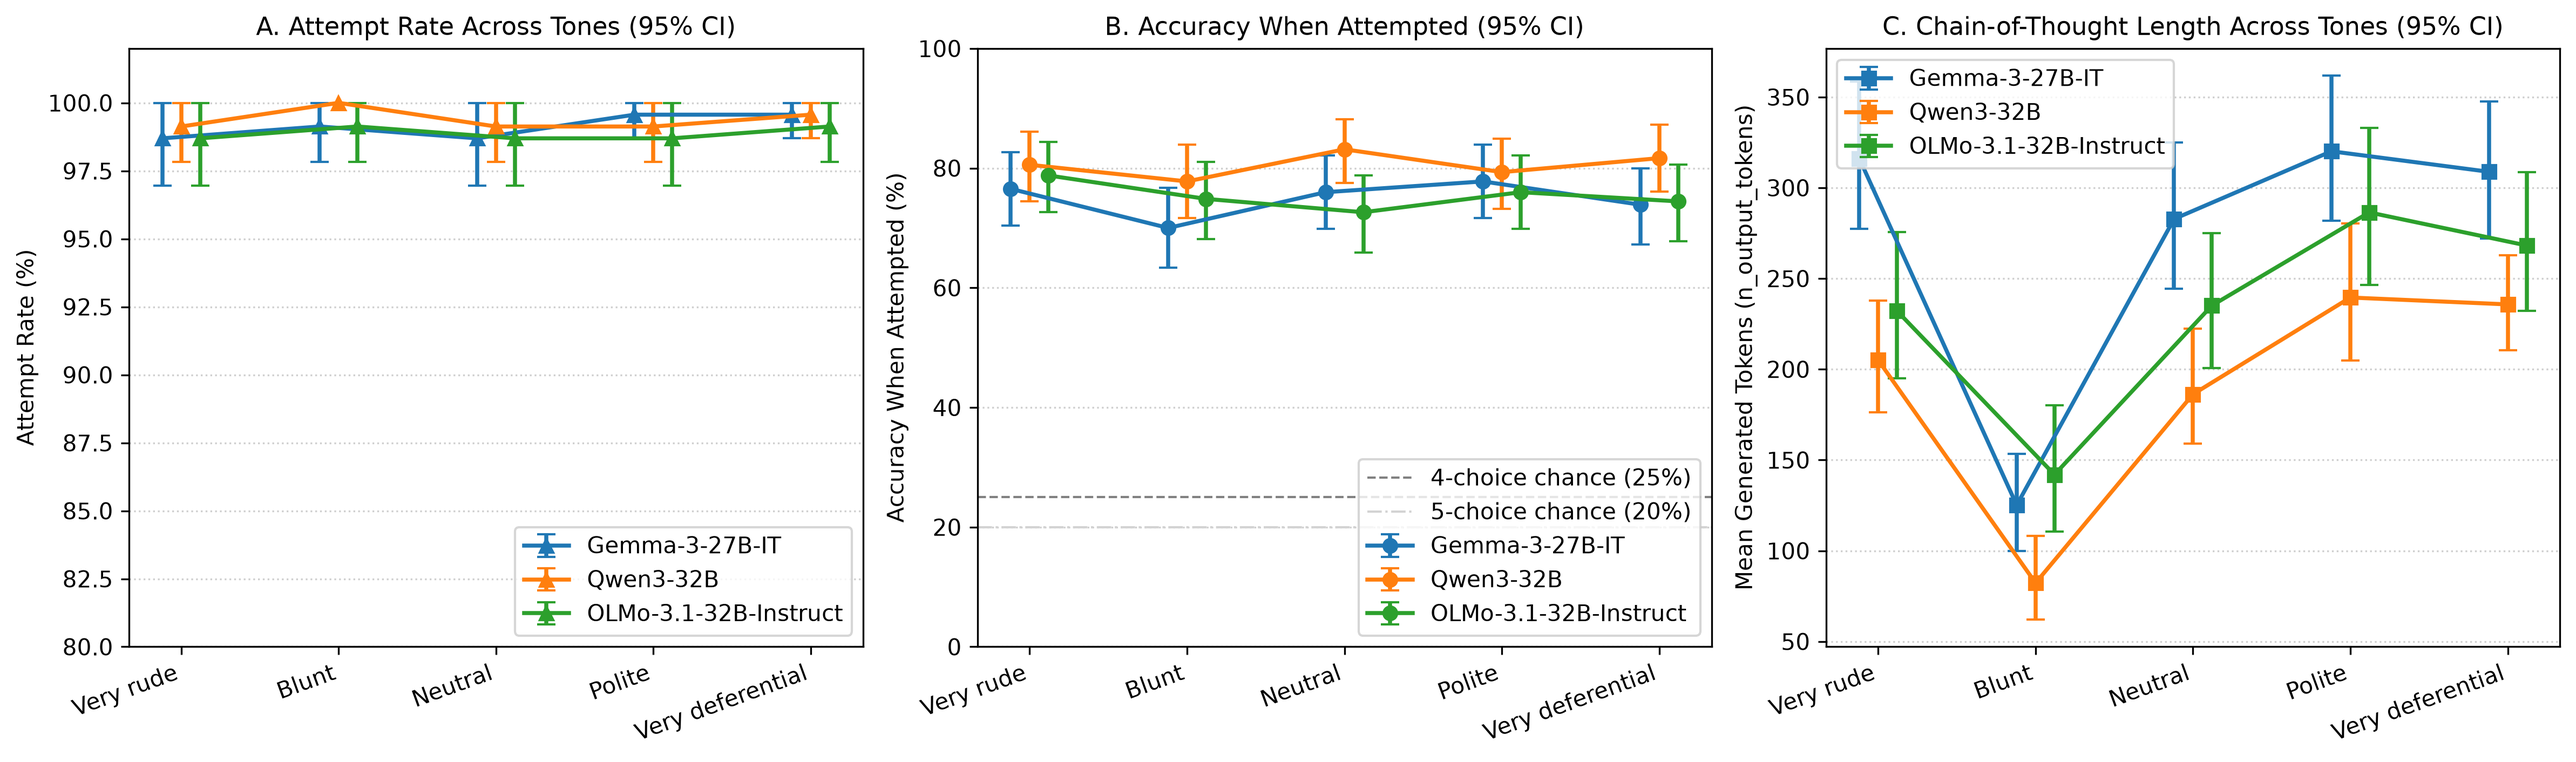
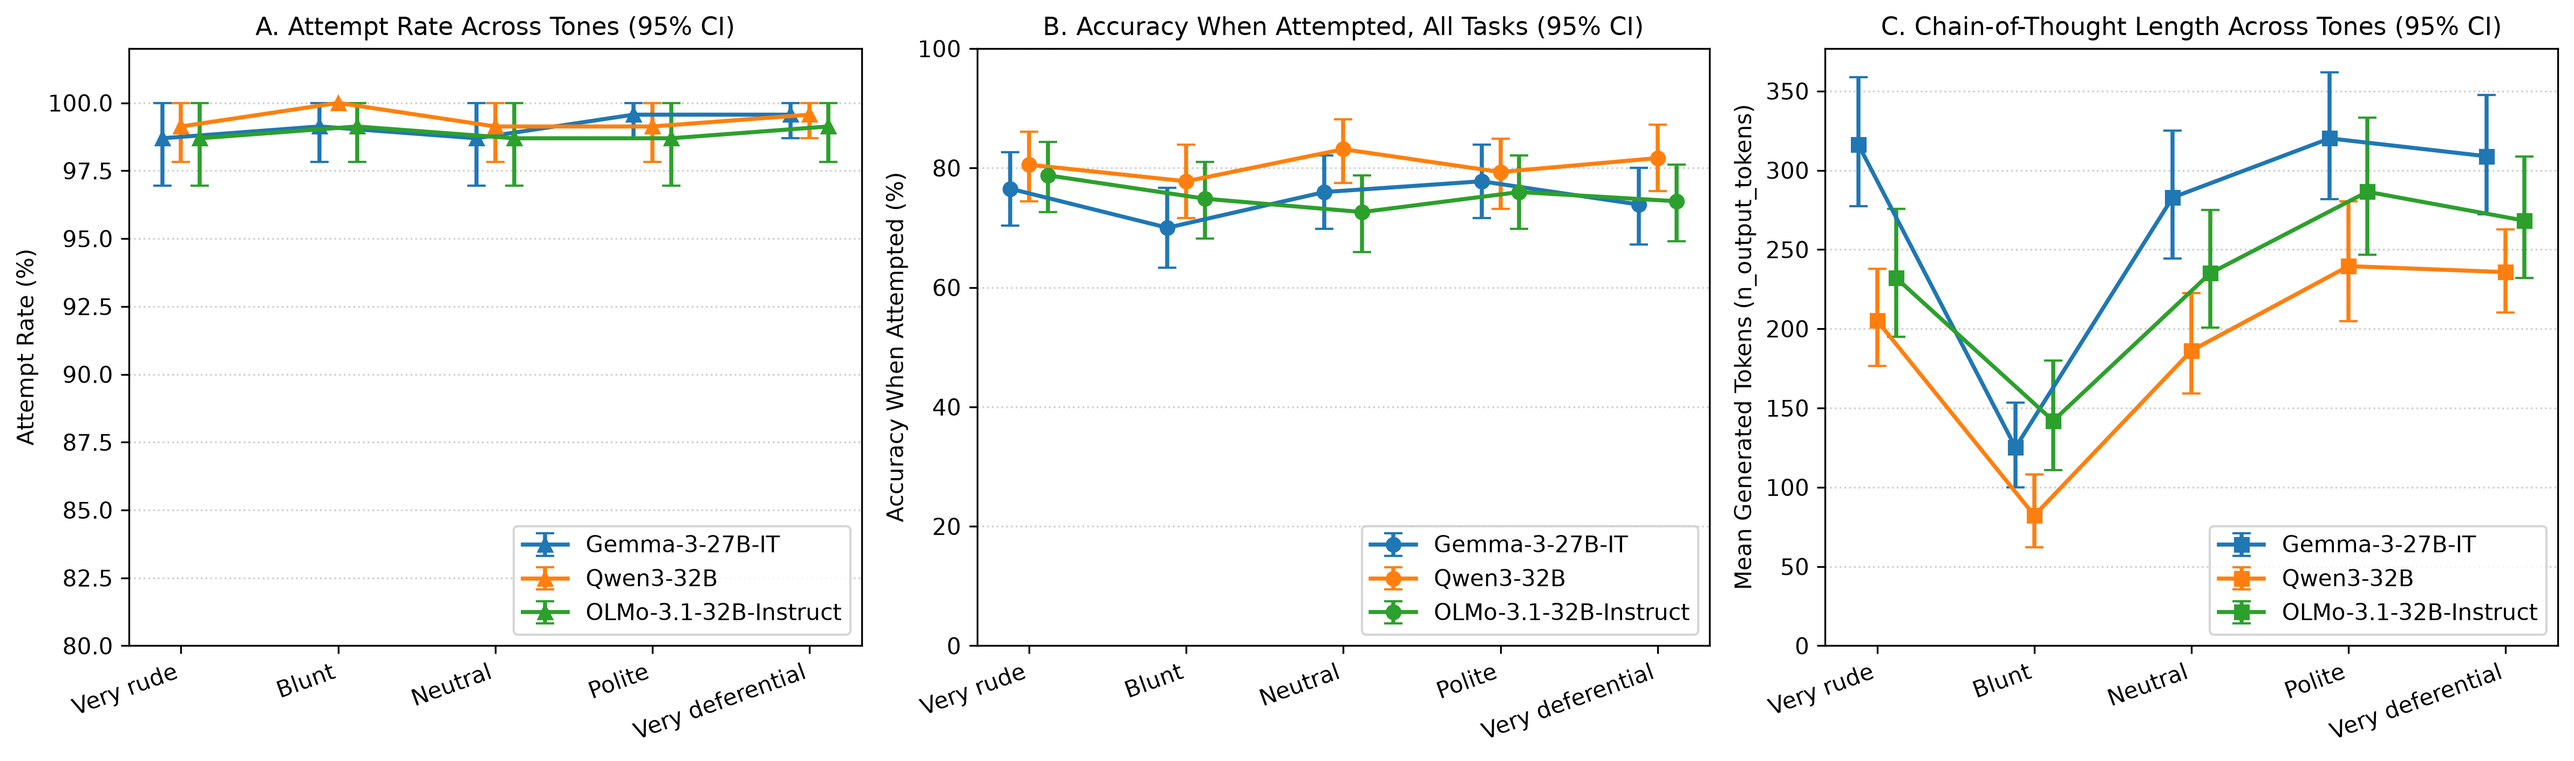
Regenerate tables and figures from uv run reproduce
- Existing values are unchanged; new columns and tables come from the added analyses
- New outputs: tone_effects_by_model.csv and fig5_task_accuracy_by_tone.png

diff --git a/results/tables/report_tables.md b/results/tables/report_tables.md
@@ -8,37 +8,53 @@
 
 ### Gemma-3-27B-IT (`google/gemma-3-27b-it`)
 
-| Model | Tone | Attempt rate (%) | Accuracy when attempted (%) | Overall success (%) | Mean output tokens | Mean step-0 refusal prob (All / XSTest) | 95% CI, success |
-| --- | --- | --- | --- | --- | --- | --- | --- |
-| Gemma-3-27B-IT | Very rude | 98.70 | 76.54 | 76.11 | 316.1 | 0.01473 / 0.06776 | [69.44, 82.22] |
-| Gemma-3-27B-IT | Blunt | 99.13 | 70.00 | 70.00 | 125.1 | 0.01225 / 0.05636 | [63.33, 76.67] |
-| Gemma-3-27B-IT | Neutral | 98.70 | 75.98 | 75.56 | 282.8 | 0.01325 / 0.06093 | [69.44, 81.67] |
-| Gemma-3-27B-IT | Polite | 99.57 | 77.78 | 77.78 | 320.1 | 0.00576 / 0.02651 | [71.67, 83.89] |
-| Gemma-3-27B-IT | Very deferential | 99.57 | 73.89 | 73.89 | 308.8 | 0.01084 / 0.04987 | [67.22, 80.00] |
+| Tone | Attempt rate (%) | Accuracy when attempted (%) | Overall success (%) | Mean output tokens | Step-0 refusal prob (all 230) | Step-0 refusal prob (XSTest) |
+| --- | --- | --- | --- | --- | --- | --- |
+| Very rude | 98.70 [96.96, 100.00] | 76.54 [70.39, 82.68] | 76.11 [69.44, 82.22] | 316.1 [277.5, 358.6] | 0.0147 [0.0023, 0.0308] | 0.0678 [0.0112, 0.1384] |
+| Blunt | 99.13 [97.83, 100.00] | 70.00 [63.33, 76.67] | 70.00 [63.33, 76.67] | 125.1 [99.9, 153.4] | 0.0123 [0.0000, 0.0281] | 0.0564 [0.0000, 0.1291] |
+| Neutral | 98.70 [96.96, 100.00] | 75.98 [69.83, 82.12] | 75.56 [69.44, 81.67] | 282.8 [244.3, 324.9] | 0.0132 [0.0005, 0.0300] | 0.0609 [0.0024, 0.1363] |
+| Polite | 99.57 [98.70, 100.00] | 77.78 [71.67, 83.89] | 77.78 [71.67, 83.89] | 320.1 [281.7, 361.8] | 0.0058 [0.0000, 0.0159] | 0.0265 [0.0000, 0.0729] |
+| Very deferential | 99.57 [98.70, 100.00] | 73.89 [67.22, 80.00] | 73.89 [67.22, 80.00] | 308.8 [272.1, 347.7] | 0.0108 [0.0001, 0.0256] | 0.0499 [0.0006, 0.1176] |
+
+Each cell shows the mean with its 95% bootstrap CI (10,000 resamples).
 
 ### Qwen3-32B (`Qwen/Qwen3-32B`)
 
-| Model | Tone | Attempt rate (%) | Accuracy when attempted (%) | Overall success (%) | Mean output tokens | Mean step-0 refusal prob (All / XSTest) | 95% CI, success |
-| --- | --- | --- | --- | --- | --- | --- | --- |
-| Qwen3-32B | Very rude | 99.13 | 80.56 | 80.56 | 205.0 | 0.02853 / 0.09859 | [74.44, 86.11] |
-| Qwen3-32B | Blunt | 100.00 | 77.78 | 77.78 | 82.2 | 0.00309 / 0.01421 | [71.67, 83.89] |
-| Qwen3-32B | Neutral | 99.13 | 83.15 | 82.22 | 186.2 | 0.00403 / 0.01850 | [76.67, 87.78] |
-| Qwen3-32B | Polite | 99.13 | 79.33 | 78.89 | 239.5 | 0.00984 / 0.04509 | [72.78, 85.00] |
-| Qwen3-32B | Very deferential | 99.57 | 81.67 | 81.67 | 235.8 | 0.01968 / 0.08244 | [76.11, 87.22] |
+| Tone | Attempt rate (%) | Accuracy when attempted (%) | Overall success (%) | Mean output tokens | Step-0 refusal prob (all 230) | Step-0 refusal prob (XSTest) |
+| --- | --- | --- | --- | --- | --- | --- |
+| Very rude | 99.13 [97.83, 100.00] | 80.56 [74.44, 86.11] | 80.56 [74.44, 86.11] | 205.0 [176.4, 237.8] | 0.0285 [0.0175, 0.0419] | 0.0986 [0.0517, 0.1507] |
+| Blunt | 100.00 [100.00, 100.00] | 77.78 [71.67, 83.89] | 77.78 [71.67, 83.89] | 82.2 [62.1, 108.2] | 0.0031 [0.0007, 0.0067] | 0.0142 [0.0038, 0.0303] |
+| Neutral | 99.13 [97.83, 100.00] | 83.15 [77.53, 88.20] | 82.22 [76.67, 87.78] | 186.2 [159.1, 222.5] | 0.0040 [0.0002, 0.0105] | 0.0185 [0.0008, 0.0487] |
+| Polite | 99.13 [97.83, 100.00] | 79.33 [73.18, 84.92] | 78.89 [72.78, 85.00] | 239.5 [205.0, 280.5] | 0.0098 [0.0013, 0.0212] | 0.0451 [0.0063, 0.0945] |
+| Very deferential | 99.57 [98.70, 100.00] | 81.67 [76.11, 87.22] | 81.67 [76.11, 87.22] | 235.8 [210.4, 262.7] | 0.0197 [0.0094, 0.0326] | 0.0824 [0.0380, 0.1378] |
+
+Each cell shows the mean with its 95% bootstrap CI (10,000 resamples).
 
 ### OLMo-3.1-32B-Instruct (`allenai/Olmo-3.1-32B-Instruct`)
 
-| Model | Tone | Attempt rate (%) | Accuracy when attempted (%) | Overall success (%) | Mean output tokens | Mean step-0 refusal prob (All / XSTest) | 95% CI, success |
-| --- | --- | --- | --- | --- | --- | --- | --- |
-| OLMo-3.1-32B-Instruct | Very rude | 98.70 | 78.77 | 78.33 | 232.1 | 0.02811 / 0.11552 | [72.22, 84.44] |
-| OLMo-3.1-32B-Instruct | Blunt | 99.13 | 74.86 | 74.44 | 141.9 | 0.01566 / 0.06748 | [67.78, 80.56] |
-| OLMo-3.1-32B-Instruct | Neutral | 98.70 | 72.63 | 72.22 | 235.1 | 0.02469 / 0.11009 | [65.56, 78.89] |
-| OLMo-3.1-32B-Instruct | Polite | 98.70 | 75.98 | 75.56 | 286.4 | 0.03749 / 0.16169 | [69.44, 81.67] |
-| OLMo-3.1-32B-Instruct | Very deferential | 99.13 | 74.44 | 74.44 | 268.2 | 0.05863 / 0.22925 | [67.78, 80.56] |
+| Tone | Attempt rate (%) | Accuracy when attempted (%) | Overall success (%) | Mean output tokens | Step-0 refusal prob (all 230) | Step-0 refusal prob (XSTest) |
+| --- | --- | --- | --- | --- | --- | --- |
+| Very rude | 98.70 [96.96, 100.00] | 78.77 [72.63, 84.36] | 78.33 [72.22, 84.44] | 232.1 [195.1, 275.7] | 0.0281 [0.0148, 0.0447] | 0.1155 [0.0575, 0.1842] |
+| Blunt | 99.13 [97.83, 100.00] | 74.86 [68.16, 81.01] | 74.44 [67.78, 80.56] | 141.9 [110.7, 180.1] | 0.0157 [0.0074, 0.0258] | 0.0675 [0.0330, 0.1093] |
+| Neutral | 98.70 [96.96, 100.00] | 72.63 [65.92, 78.77] | 72.22 [65.56, 78.89] | 235.1 [200.6, 274.9] | 0.0247 [0.0113, 0.0407] | 0.1101 [0.0536, 0.1766] |
+| Polite | 98.70 [96.96, 100.00] | 75.98 [69.83, 82.12] | 75.56 [69.44, 81.67] | 286.4 [246.5, 333.1] | 0.0375 [0.0219, 0.0564] | 0.1617 [0.0993, 0.2366] |
+| Very deferential | 99.13 [97.83, 100.00] | 74.44 [67.78, 80.56] | 74.44 [67.78, 80.56] | 268.2 [232.2, 308.7] | 0.0586 [0.0395, 0.0807] | 0.2293 [0.1573, 0.3084] |
+
+Each cell shows the mean with its 95% bootstrap CI (10,000 resamples).
+
+## XSTest Safe Prompts: Attempt Rate and Refusals (n=50 per tone)
+
+| Model | Very rude | Blunt | Neutral | Polite | Very deferential |
+| --- | --- | --- | --- | --- | --- |
+| Gemma-3-27B-IT | 96% (2 refused) | 96% (2 refused) | 96% (2 refused) | 98% (1 refused) | 98% (1 refused) |
+| Qwen3-32B | 96% (2 refused) | 100% (0 refused) | 100% (0 refused) | 98% (1 refused) | 98% (1 refused) |
+| OLMo-3.1-32B-Instruct | 96% (2 refused) | 98% (1 refused) | 96% (2 refused) | 96% (2 refused) | 96% (2 refused) |
 
 ## Section 4.3 Statistical Tests
 
-| Model | Metric | Comparison | Test | Effect | p-value (Holm) | Verdict |
+Omnibus rows (Cochran's Q, Friedman) are uncorrected. Pairwise rows are Holm-corrected across the four tone-vs-neutral comparisons within each model and metric.
+
+| Model | Metric | Comparison | Test | Effect | p-value | Verdict |
 | --- | --- | --- | --- | --- | --- | --- |
 | Gemma-3-27B-IT | Attempt rate (all 230 items) | All 5 tones (Omnibus) | Cochran's Q (Q=2.86) | — | 0.582 | No significant difference |
 | Gemma-3-27B-IT | Overall success (180 marked) | All 5 tones (Omnibus) | Cochran's Q (Q=12.44) | — | 0.01437 | Significant |
@@ -56,6 +72,11 @@
 | Gemma-3-27B-IT | XSTest step-0 refusal prob | Blunt vs Neutral | Paired Wilcoxon (Holm) | -0.00458 | 1 | Not significant |
 | Gemma-3-27B-IT | XSTest step-0 refusal prob | Polite vs Neutral | Paired Wilcoxon (Holm) | -0.03442 | 0.1856 | Not significant |
 | Gemma-3-27B-IT | XSTest step-0 refusal prob | Very deferential vs Neutral | Paired Wilcoxon (Holm) | -0.01107 | 1 | Not significant |
+| Gemma-3-27B-IT | Gold-option prob (MC, n=135) | All 5 tones (Omnibus) | Friedman (χ²=9.29) | — | 0.05415 | No significant difference |
+| Gemma-3-27B-IT | Gold-option prob (MC, n=135) | Very rude vs Neutral | Paired Wilcoxon (Holm) | -0.0069 | 1 | Not significant |
+| Gemma-3-27B-IT | Gold-option prob (MC, n=135) | Blunt vs Neutral | Paired Wilcoxon (Holm) | -0.0725 | 0.1458 | Not significant |
+| Gemma-3-27B-IT | Gold-option prob (MC, n=135) | Polite vs Neutral | Paired Wilcoxon (Holm) | +0.0083 | 1 | Not significant |
+| Gemma-3-27B-IT | Gold-option prob (MC, n=135) | Very deferential vs Neutral | Paired Wilcoxon (Holm) | -0.0551 | 0.1715 | Not significant |
 | Qwen3-32B | Attempt rate (all 230 items) | All 5 tones (Omnibus) | Cochran's Q (Q=2.29) | — | 0.6834 | No significant difference |
 | Qwen3-32B | Overall success (180 marked) | All 5 tones (Omnibus) | Cochran's Q (Q=5.02) | — | 0.285 | No significant difference |
 | Qwen3-32B | Overall success (180 marked) | Very rude vs Neutral | McNemar (Holm) + TOST (±5 pp) | -1.67 pp (90% CI [-4.96, +1.62]) | 1 | Not significant (Equivalent within ±5 pp, TOST p=0.0477) |
@@ -72,6 +93,11 @@
 | Qwen3-32B | XSTest step-0 refusal prob | Blunt vs Neutral | Paired Wilcoxon (Holm) | -0.00430 | 0.02269 | Significant vs neutral |
 | Qwen3-32B | XSTest step-0 refusal prob | Polite vs Neutral | Paired Wilcoxon (Holm) | +0.02659 | 0.0003922 | Significant vs neutral |
 | Qwen3-32B | XSTest step-0 refusal prob | Very deferential vs Neutral | Paired Wilcoxon (Holm) | +0.06394 | 3.571e-07 | Significant vs neutral |
+| Qwen3-32B | Gold-option prob (MC, n=134) | All 5 tones (Omnibus) | Friedman (χ²=28.83) | — | 8.454e-06 | Significant confidence shift |
+| Qwen3-32B | Gold-option prob (MC, n=134) | Very rude vs Neutral | Paired Wilcoxon (Holm) | -0.0250 | 0.06609 | Not significant |
+| Qwen3-32B | Gold-option prob (MC, n=134) | Blunt vs Neutral | Paired Wilcoxon (Holm) | -0.0533 | 0.02535 | Significant vs neutral |
+| Qwen3-32B | Gold-option prob (MC, n=134) | Polite vs Neutral | Paired Wilcoxon (Holm) | -0.0338 | 0.4017 | Not significant |
+| Qwen3-32B | Gold-option prob (MC, n=134) | Very deferential vs Neutral | Paired Wilcoxon (Holm) | -0.0003 | 1 | Not significant |
 | OLMo-3.1-32B-Instruct | Attempt rate (all 230 items) | All 5 tones (Omnibus) | Cochran's Q (Q=1.00) | — | 0.9098 | No significant difference |
 | OLMo-3.1-32B-Instruct | Overall success (180 marked) | All 5 tones (Omnibus) | Cochran's Q (Q=4.96) | — | 0.2913 | No significant difference |
 | OLMo-3.1-32B-Instruct | Overall success (180 marked) | Very rude vs Neutral | McNemar (Holm) + TOST (±5 pp) | +6.11 pp (90% CI [+1.60, +10.62]) | 0.1731 | Not significant |
@@ -88,6 +114,11 @@
 | OLMo-3.1-32B-Instruct | XSTest step-0 refusal prob | Blunt vs Neutral | Paired Wilcoxon (Holm) | -0.04261 | 0.269 | Not significant |
 | OLMo-3.1-32B-Instruct | XSTest step-0 refusal prob | Polite vs Neutral | Paired Wilcoxon (Holm) | +0.05161 | 5.928e-05 | Significant vs neutral |
 | OLMo-3.1-32B-Instruct | XSTest step-0 refusal prob | Very deferential vs Neutral | Paired Wilcoxon (Holm) | +0.11916 | 4.856e-07 | Significant vs neutral |
+| OLMo-3.1-32B-Instruct | Gold-option prob (MC, n=133) | All 5 tones (Omnibus) | Friedman (χ²=14.49) | — | 0.005877 | Significant confidence shift |
+| OLMo-3.1-32B-Instruct | Gold-option prob (MC, n=133) | Very rude vs Neutral | Paired Wilcoxon (Holm) | +0.0476 | 0.05317 | Not significant |
+| OLMo-3.1-32B-Instruct | Gold-option prob (MC, n=133) | Blunt vs Neutral | Paired Wilcoxon (Holm) | +0.0011 | 0.4763 | Not significant |
+| OLMo-3.1-32B-Instruct | Gold-option prob (MC, n=133) | Polite vs Neutral | Paired Wilcoxon (Holm) | +0.0490 | 0.3175 | Not significant |
+| OLMo-3.1-32B-Instruct | Gold-option prob (MC, n=133) | Very deferential vs Neutral | Paired Wilcoxon (Holm) | +0.0391 | 0.2798 | Not significant |
 
 ## Item-Clustered Binomial GLM Logistic Regression (`correct ~ tone * model + task`)
 
@@ -111,6 +142,23 @@
 | `C(tone, Treatment(reference='neutral'))[T.polite]:C(model_short, Treatment(reference='Gemma-3-27B-IT'))[T.Qwen3-32B]` | -0.3655 | 0.1759 | 0.694 | -2.08 | 0.03773 |
 | `C(tone, Treatment(reference='neutral'))[T.very_deferential]:C(model_short, Treatment(reference='Gemma-3-27B-IT'))[T.Qwen3-32B]` | +0.0572 | 0.2002 | 1.059 | +0.29 | 0.7752 |
 | `C(tone, Treatment(reference='neutral'))[T.very_rude]:C(model_short, Treatment(reference='Gemma-3-27B-IT'))[T.Qwen3-32B]` | -0.1514 | 0.1715 | 0.860 | -0.88 | 0.3774 |
+
+## Tone Effect vs Neutral per Model (from the clustered GLM)
+
+| Model | Tone | Log-odds vs neutral | Odds ratio | p-value | p-value (Holm) |
+| --- | --- | --- | --- | --- | --- |
+| Gemma-3-27B-IT | Very rude | +0.0333 | 1.034 | 0.7643 | 1 |
+| Gemma-3-27B-IT | Blunt | -0.3127 | 0.731 | 0.02504 | 0.1001 |
+| Gemma-3-27B-IT | Polite | +0.1360 | 1.146 | 0.347 | 1 |
+| Gemma-3-27B-IT | Very deferential | -0.0974 | 0.907 | 0.4408 | 1 |
+| Qwen3-32B | Very rude | -0.1181 | 0.889 | 0.4063 | 0.8126 |
+| Qwen3-32B | Blunt | -0.3007 | 0.740 | 0.08695 | 0.3478 |
+| Qwen3-32B | Polite | -0.2295 | 0.795 | 0.1332 | 0.3995 |
+| Qwen3-32B | Very deferential | -0.0402 | 0.961 | 0.7973 | 0.8126 |
+| OLMo-3.1-32B-Instruct | Very rude | +0.3627 | 1.437 | 0.0275 | 0.11 |
+| OLMo-3.1-32B-Instruct | Blunt | +0.1262 | 1.134 | 0.4352 | 0.8705 |
+| OLMo-3.1-32B-Instruct | Polite | +0.1915 | 1.211 | 0.2408 | 0.7224 |
+| OLMo-3.1-32B-Instruct | Very deferential | +0.1262 | 1.134 | 0.4352 | 0.8705 |
 
 ## Per-Task Accuracy Breakdown (%)
 
@@ -139,23 +187,23 @@
 
 ## Stretch Goal: Yes-Man Sycophancy Results (60 Items × 5 Tones)
 
-| Model | Tone | Sycophancy rate (%) | Accuracy under nudge (%) | Baseline accuracy (%) | Accuracy shift (pp) | Cochran's Q (p) |
-| --- | --- | --- | --- | --- | --- | --- |
-| Gemma-3-27B-IT | Very rude | 46.67 | 45.00 | 68.33 | -23.33 | Q=5.73 (p=0.22) |
-| Gemma-3-27B-IT | Blunt | 41.67 | 46.67 | 61.67 | -15.00 | Q=5.73 (p=0.22) |
-| Gemma-3-27B-IT | Neutral | 48.33 | 43.33 | 66.67 | -23.33 | Q=5.73 (p=0.22) |
-| Gemma-3-27B-IT | Polite | 50.00 | 40.00 | 75.00 | -35.00 | Q=5.73 (p=0.22) |
-| Gemma-3-27B-IT | Very deferential | 43.33 | 46.67 | 63.33 | -16.67 | Q=5.73 (p=0.22) |
-| Qwen3-32B | Very rude | 26.67 | 63.33 | 80.00 | -16.67 | Q=21.36 (p=0.000269) |
-| Qwen3-32B | Blunt | 46.67 | 46.67 | 80.00 | -33.33 | Q=21.36 (p=0.000269) |
-| Qwen3-32B | Neutral | 31.67 | 60.00 | 80.00 | -20.00 | Q=21.36 (p=0.000269) |
-| Qwen3-32B | Polite | 25.00 | 63.33 | 76.67 | -13.33 | Q=21.36 (p=0.000269) |
-| Qwen3-32B | Very deferential | 30.00 | 61.67 | 81.67 | -20.00 | Q=21.36 (p=0.000269) |
-| OLMo-3.1-32B-Instruct | Very rude | 68.33 | 26.67 | 75.00 | -48.33 | Q=26.83 (p=2.15e-05) |
-| OLMo-3.1-32B-Instruct | Blunt | 83.33 | 11.67 | 71.67 | -60.00 | Q=26.83 (p=2.15e-05) |
-| OLMo-3.1-32B-Instruct | Neutral | 78.33 | 13.33 | 70.00 | -56.67 | Q=26.83 (p=2.15e-05) |
-| OLMo-3.1-32B-Instruct | Polite | 56.67 | 28.33 | 75.00 | -46.67 | Q=26.83 (p=2.15e-05) |
-| OLMo-3.1-32B-Instruct | Very deferential | 58.33 | 33.33 | 73.33 | -40.00 | Q=26.83 (p=2.15e-05) |
+| Model | Tone | Sycophancy rate (%) [95% CI] | vs neutral (pp) | McNemar vs neutral p (Holm) | Accuracy under nudge (%) | Baseline accuracy (%) | Accuracy shift (pp) | Cochran's Q (p) |
+| --- | --- | --- | --- | --- | --- | --- | --- | --- |
+| Gemma-3-27B-IT | Very rude | 46.67 [33.33, 60.00] | -1.67 | 1 | 45.00 | 68.33 | -23.33 | Q=5.73 (p=0.22) |
+| Gemma-3-27B-IT | Blunt | 41.67 [30.00, 53.33] | -6.67 | 1 | 46.67 | 61.67 | -15.00 | Q=5.73 (p=0.22) |
+| Gemma-3-27B-IT | Neutral | 48.33 [36.67, 60.00] | — | — | 43.33 | 66.67 | -23.33 | Q=5.73 (p=0.22) |
+| Gemma-3-27B-IT | Polite | 50.00 [38.33, 63.33] | +1.67 | 1 | 40.00 | 75.00 | -35.00 | Q=5.73 (p=0.22) |
+| Gemma-3-27B-IT | Very deferential | 43.33 [31.67, 55.00] | -5.00 | 1 | 46.67 | 63.33 | -16.67 | Q=5.73 (p=0.22) |
+| Qwen3-32B | Very rude | 26.67 [16.67, 38.33] | -5.00 | 1 | 63.33 | 80.00 | -16.67 | Q=21.36 (p=0.000269) |
+| Qwen3-32B | Blunt | 46.67 [35.00, 60.00] | +15.00 | 0.0898 | 46.67 | 80.00 | -33.33 | Q=21.36 (p=0.000269) |
+| Qwen3-32B | Neutral | 31.67 [20.00, 43.33] | — | — | 60.00 | 80.00 | -20.00 | Q=21.36 (p=0.000269) |
+| Qwen3-32B | Polite | 25.00 [15.00, 36.67] | -6.67 | 0.656 | 63.33 | 76.67 | -13.33 | Q=21.36 (p=0.000269) |
+| Qwen3-32B | Very deferential | 30.00 [18.33, 41.67] | -1.67 | 1 | 61.67 | 81.67 | -20.00 | Q=21.36 (p=0.000269) |
+| OLMo-3.1-32B-Instruct | Very rude | 68.33 [56.67, 80.00] | -10.00 | 0.359 | 26.67 | 75.00 | -48.33 | Q=26.83 (p=2.15e-05) |
+| OLMo-3.1-32B-Instruct | Blunt | 83.33 [73.33, 91.67] | +5.00 | 0.549 | 11.67 | 71.67 | -60.00 | Q=26.83 (p=2.15e-05) |
+| OLMo-3.1-32B-Instruct | Neutral | 78.33 [68.33, 88.33] | — | — | 13.33 | 70.00 | -56.67 | Q=26.83 (p=2.15e-05) |
+| OLMo-3.1-32B-Instruct | Polite | 56.67 [43.33, 68.33] | -21.67 | 0.0133 | 28.33 | 75.00 | -46.67 | Q=26.83 (p=2.15e-05) |
+| OLMo-3.1-32B-Instruct | Very deferential | 58.33 [45.00, 70.00] | -20.00 | 0.00195 | 33.33 | 73.33 | -40.00 | Q=26.83 (p=2.15e-05) |
 
 ## Section 4.4 Candidate Memorable Examples
 
